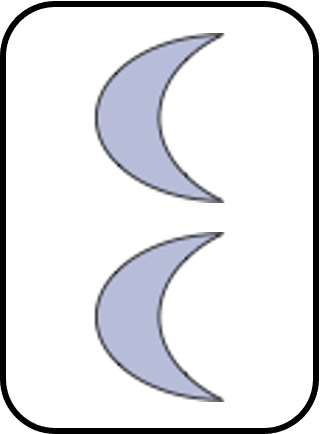
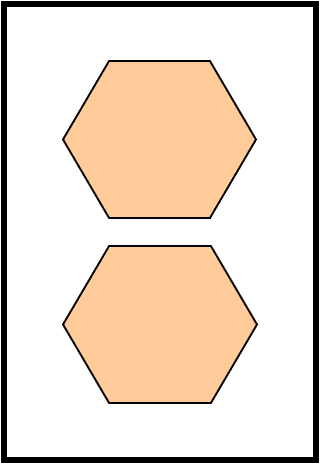
add new stimuli for rmts and change timing

diff --git a/experiments/rmts.js b/experiments/rmts.js
@@ -48,11 +48,8 @@ var rmts = {
         showMatchL("images/empty.png");
         showMatchR("images/empty.png");
 
-
-
-
-        $("#rmts_text").text("");
-
+                $("#rmts_text").text("");
+                $("#rmts_text_bottom").text("");
 
         rmts.trial.shift();
         rmts.sample.shift();
@@ -60,7 +57,7 @@ var rmts = {
 
         setTimeout(function () {
             rmts.next()
-        }, 1100);
+        }, 500);
 
     },
 
@@ -85,6 +82,12 @@ var rmts = {
 
         showRmtsSample("images/rmts/sample_" + rmts.sample[0] + ".png")
 
+
+  showMatchL("images/empty.png");
+  showMatchR("images/empty.png");
+
+  setTimeout(function () {
+
         if (rmts.matchPos[0] == "left") {
           showMatchL("images/rmts/match_" + rmts.sample[0] + ".png");
           showMatchR("images/rmts/dis_" + rmts.sample[0] + ".png");
@@ -92,9 +95,15 @@ var rmts = {
           showMatchR("images/rmts/match_" + rmts.sample[0] + ".png");
           showMatchL("images/rmts/dis_" + rmts.sample[0] + ".png")
         }
+      }, 2000)
 
-        $("#rmts_text").text("Welches von den Bildern passt besser zu diesem hier? Welches Bild is ähnlicher zu diesem hier?");
 
+  $("#rmts_text").text("Schau mal, hier ist eine Karte?");
+  $("#rmts_text_bottom").text("");
+
+setTimeout(function () {
+    $("#rmts_text_bottom").text("Hier sind noch zwei Karten. Welche von den Karten passt besser zur Ersten? Welches Karte ist ähnlicher zur ersten Karte?");
+  }, 2000)
 
         $(".match_l").click(function () {
 
@@ -112,6 +121,7 @@ var rmts = {
 
             pause("moveButton", 1100)
 
+
             setTimeout(function () {
                 rmts.newtrial()
             }, 1100);
@@ -122,13 +132,11 @@ var rmts = {
 
               if (rmts.matchPos[0] == "left") {
                     var correct = 1
-                    var choice_location = "left"
                     var pick = "match_" + rmts.sample[0]
                     var leftObject = "match_" + rmts.sample[0];
                     var rightObject = "dis_" + rmts.sample[0];
                 } else {
                   var correct = 0
-                  var choice_location = "left"
                   var pick = "dis_" + rmts.sample[0]
                   var leftObject = "dis_" + rmts.sample[0];
                   var rightObject = "match_" + rmts.sample[0];
@@ -142,12 +150,11 @@ var rmts = {
                 subid: train.subid,
                 subage: train.subage,
                 task: "match_to_sample",
-                sample: rmts.sample[0],
+                item: rmts.sample[0],
                 trial: rmts.trial[0],
                 leftObject: leftObject,
                 rightObject: rightObject,
                 correct_location: rmts.matchPos[0],
-                choice_location: choice_location,
                 pick: pick,
                 correct: correct
             };
@@ -179,13 +186,11 @@ var rmts = {
 
           if (rmts.matchPos[0] == "right") {
                       var correct = 1
-                      var choice_location = "right"
                       var pick = "match_" + rmts.sample[0]
                       var rightObject = "match_" + rmts.sample[0];
-                      var lefttObject = "dis_" + rmts.sample[0];
+                      var leftObject = "dis_" + rmts.sample[0];
                   } else {
                     var correct = 0
-                    var choice_location = "right"
                     var pick = "dis_" + rmts.sample[0]
                     var rightObject = "dis_" + rmts.sample[0];
                     var leftObject = "match_" + rmts.sample[0];
@@ -199,12 +204,11 @@ var rmts = {
                   subid: train.subid,
                   subage: train.subage,
                   task: "match_to_sample",
-                  sample: rmts.sample[0],
+                  item: rmts.sample[0],
                   trial: rmts.trial[0],
                   leftObject: leftObject,
                   rightObject: rightObject,
                   correct_location: rmts.matchPos[0],
-                  choice_location: choice_location,
                   pick: pick,
                   correct: correct
               };

diff --git a/experiments/pragBat3.html b/experiments/pragBat3.html
@@ -574,14 +574,15 @@ Sehr gut, so geht das Farbenspiel. Jetzt bist Du dran. Denk dran, wenn es eine B
 
 
         <p class="block-text">
-        In diesem Spiel sollst Du die Bilder finden die zusammen passen weil sie ähnlich zueinander sind. Du siehst immer ein Bild oben und zwei darunter. Deine Aufgabe ist es das untere Bild zu finden, dass wie das obere ist
+        In diesem Spiel sollst Du die Karten finden die zusammen passen weil sie ähnlich zueinander sind. Du siehst immer eine Karte oben und zwei darunter. Deine Aufgabe ist es die untere Karte zu finden, dass wie die obere ist.
         </p>
 
-        <img  class="match_l" src="images/rmts/match_A.png" style="TOP:250px">
-        <img class="match_r" src="images/rmts/dis_A.png" style="TOP:250px">
+        <img  class="rmts_sample" src="images/rmts/match_A.png" style="TOP:150px; width: 100px">
+        <img  class="match_l" src="images/rmts/match_A.png" style="TOP:350px; width: 100px; left: 35%">
+        <img class="match_r" src="images/rmts/dis_A.png" style="TOP:350px; width: 100px; left: 65%">
 
 
-     <nextButton type="button" onClick="this.blur(); rmts.next()"></nextButton>
+     <nextButton type="button" onClick="rmts.next()"></nextButton>
 
     </div>
 
@@ -589,6 +590,7 @@ Sehr gut, so geht das Farbenspiel. Jetzt bist Du dran. Denk dran, wenn es eine B
     <div class="slide" id="rmts">
 
         <p id="rmts_text" class="rmts_text">{{}}</p>
+        <p id="rmts_text_bottom" class="rmts_text_bottom">{{}}</p>
 
         <img id="selector" class="selector" src="images/selector.png">
 

diff --git a/experiments/ad_hoc.js b/experiments/ad_hoc.js
@@ -51,13 +51,13 @@ var adhoc = {
         };
 
        if (adhoc.infPos[0] == "left"){
-        var LeftFruit = adhoc.stimulus[0]+"_inf";
-        var RightFruit = adhoc.stimulus[0]+"_dis";
+        var leftFruit = adhoc.stimulus[0]+"_inf";
+        var rightFruit = adhoc.stimulus[0]+"_dis";
 
     } else  {
 
-        var LeftFruit = adhoc.stimulus[0]+"_dis";
-        var RightFruit = adhoc.stimulus[0]+"_inf";
+        var leftFruit = adhoc.stimulus[0]+"_dis";
+        var rightFruit = adhoc.stimulus[0]+"_inf";
     }
 
 
@@ -68,9 +68,9 @@ var adhoc = {
         subage: train.subage,
         task: "ad_hoc_implicature",
         trial: adhoc.trial[0],
-        agent: adhoc.agents[0],
-        leftObject: LeftFruit,
-        rightObject: RightFruit,
+        item: adhoc.stimulus[0],
+        leftObject: leftFruit,
+        rightObject: rightFruit,
         correct_location: adhoc.infPos[0],
         pick: pick,
         correct: correct

diff --git a/experiments/style.css b/experiments/style.css
@@ -575,7 +575,7 @@ sortButton {
 
 .rmts_sample {
     position: absolute;
-    top: 100px;
+    top: 110px;
     transform: translateX(-50%);
     left:50%;
     width: 200px;
@@ -584,18 +584,18 @@ sortButton {
 
 .match_l {
     position: absolute;
-    top: 400px;
+    top: 410px;
     transform: translateX(-50%);
-    left:35%;
+    left:30%;
     width: 200px;
     z-index: 0
 }
 
 .match_r {
     position: absolute;
-    top: 400px;
+    top: 410px;
     transform: translateX(-50%);
-    left:65%;
+    left:70%;
     width: 200px;
     z-index: 0
 }
@@ -657,6 +657,19 @@ sortButton {
 }
 
 .rmts_text {
+  font-size: 20px;
+  width: 75%;
+  text-align: center;
+  font-family: "Times New Roman";
+  margin: 0 auto;
+  margin-bottom: 1em;
+  position: absolute;
+  top: 20px;
+  transform: translateX(-50%);
+  left:50%;
+}
+
+.rmts_text_bottom {
   font-size: 20px;
   width: 75%;
   text-align: center;

diff --git a/experiments/pragBat3.js b/experiments/pragBat3.js
@@ -109,17 +109,14 @@ var posAgents = ["Bunny","Monkey","Dog","Frog","Cat"]
 function downloadData(safe) {
 					var toSave = JSON.stringify(safe)
 
-					var date = new Date()
-					var day = date.getUTCDate()
-					var month = date.getUTCMonth()+1
-					var year = date.getUTCFullYear()
-					var hour = date.getHours()
-					var minute = date.getMinutes()
+				  var date = new Date().toISOString()
+					var day = date.substr(0, 10)
+					var time = date.substr(11, 8)
 
 					var hiddenElement = document.createElement('a');
 					hiddenElement.href = 'data:text/json;charset=utf-8,' + encodeURI(toSave);
 					hiddenElement.target = '_blank';
-					hiddenElement.download = year + '-' + month + '-' + day + '-' + hour + '-' + minute + '-' +  me.subid+'_'+data.task+'.json';
+					hiddenElement.download = train.subid + '-' + data.task  + '-' + day + '-' + time + '.json';
 					hiddenElement.click();
 		}
 

diff --git a/experiments/simple_inf.js b/experiments/simple_inf.js
@@ -182,7 +182,7 @@ var simple_inf = {
             subage: train.subage,
             task: "simple_inf",
             trial: simple_inf.trial[0],
-            agent: simple_inf.agents[0],
+            item: simple_inf.object[0],
             leftObject: leftObject,
             rightObject: rightObject,
             switch: simple_inf.targetSwitch[0],
@@ -246,7 +246,7 @@ var simple_inf = {
             subage: train.subage,
             task: "simple_inf",
             trial: simple_inf.trial[0],
-            agent: simple_inf.agents[0],
+            item: simple_inf.object[0],
             leftObject: leftObject,
             rightObject: rightObject,
             switch: simple_inf.targetSwitch[0],

diff --git a/experiments/card_sorting.js b/experiments/card_sorting.js
@@ -162,7 +162,7 @@ var sort = {
                 subage: train.subage,
                 phase: sort.phase[0],
                 task: "card_sorting",
-                sample: sort.sample[0],
+                item: sort.sample[0],
                 trial: sort.trial[0],
                 leftObject: "blue_rabbit",
                 leftObject: "red_boat",
@@ -224,7 +224,7 @@ var sort = {
                 subage: train.subage,
                 phase: sort.phase[0],
                 task: "card_sorting",
-                sample: sort.sample[0],
+                item: sort.sample[0],
                 trial: sort.trial[0],
                 leftObject: "blue_rabbit",
                 leftObject: "red_boat",

diff --git a/experiments/mutual_exclusivity.js b/experiments/mutual_exclusivity.js
@@ -73,7 +73,7 @@ var me = {
         subage: train.subage,
         task: "mutual_exclusivity",
         trial: me.trial[0],
-        agent: me.agents[0],
+        item: me.agents[0],
         leftObject: LeftFruit,
         rightObject: RightFruit,
         correct_location: me.novelPos[0],
